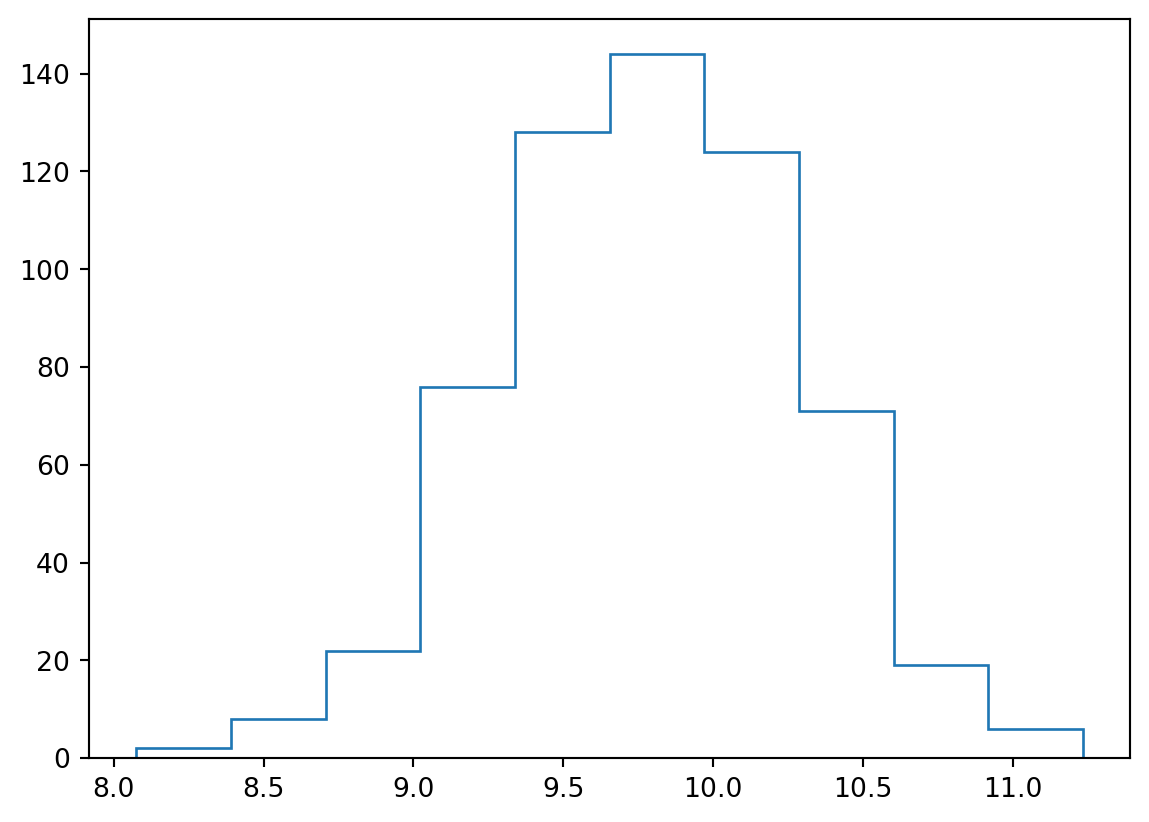
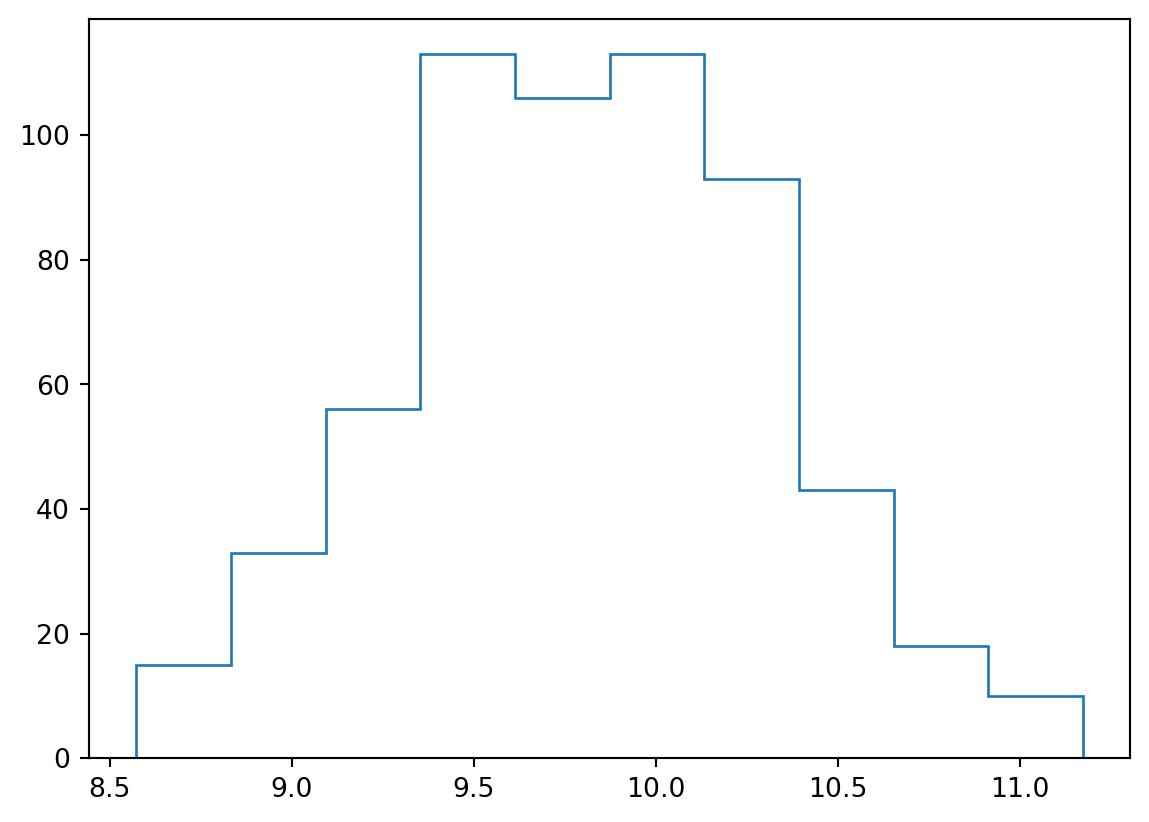
Built site for gh-pages

diff --git a/trabajos practicos/tp 03.html b/trabajos practicos/tp 03.html
@@ -336,13 +336,13 @@ window.Quarto = {
   </ul></li>
   <li><a href="#funciones-elementales" id="toc-funciones-elementales" class="nav-link" data-scroll-target="#funciones-elementales"><span class="header-section-number">2</span> Funciones elementales</a>
   <ul class="collapse">
-  <li><a href="#funciones-trigonométricas" id="toc-funciones-trigonométricas" class="nav-link" data-scroll-target="#funciones-trigonométricas"><span class="header-section-number">2.3</span> Funciones trigonométricas</a>
+  <li><a href="#funciones-trigonométricas" id="toc-funciones-trigonométricas" class="nav-link" data-scroll-target="#funciones-trigonométricas"><span class="header-section-number">2.1</span> Funciones trigonométricas</a>
   <ul class="collapse">
-  <li><a href="#tablas-de-valores" id="toc-tablas-de-valores" class="nav-link" data-scroll-target="#tablas-de-valores"><span class="header-section-number">2.3.1</span> Tablas de valores</a></li>
-  <li><a href="#funciones-inversas" id="toc-funciones-inversas" class="nav-link" data-scroll-target="#funciones-inversas"><span class="header-section-number">2.3.2</span> Funciones inversas</a></li>
-  <li><a href="#la-curva-catenaria" id="toc-la-curva-catenaria" class="nav-link" data-scroll-target="#la-curva-catenaria"><span class="header-section-number">2.3.3</span> La curva catenaria</a></li>
+  <li><a href="#tablas-de-valores" id="toc-tablas-de-valores" class="nav-link" data-scroll-target="#tablas-de-valores"><span class="header-section-number">2.1.1</span> Tablas de valores</a></li>
+  <li><a href="#funciones-inversas" id="toc-funciones-inversas" class="nav-link" data-scroll-target="#funciones-inversas"><span class="header-section-number">2.1.2</span> Funciones inversas</a></li>
+  <li><a href="#la-curva-catenaria" id="toc-la-curva-catenaria" class="nav-link" data-scroll-target="#la-curva-catenaria"><span class="header-section-number">2.1.3</span> La curva catenaria</a></li>
   </ul></li>
-  <li><a href="#funciones-exponenciales-y-logarítmicas" id="toc-funciones-exponenciales-y-logarítmicas" class="nav-link" data-scroll-target="#funciones-exponenciales-y-logarítmicas"><span class="header-section-number">2.4</span> Funciones exponenciales y logarítmicas</a></li>
+  <li><a href="#funciones-exponenciales-y-logarítmicas" id="toc-funciones-exponenciales-y-logarítmicas" class="nav-link" data-scroll-target="#funciones-exponenciales-y-logarítmicas"><span class="header-section-number">2.2</span> Funciones exponenciales y logarítmicas</a></li>
   </ul></li>
   <li><a href="#modalidad-y-fecha-de-entrega" id="toc-modalidad-y-fecha-de-entrega" class="nav-link" data-scroll-target="#modalidad-y-fecha-de-entrega"><span class="header-section-number">3</span> Modalidad y fecha de entrega</a></li>
   </ul>
@@ -422,32 +422,30 @@ H=\sigma A T^4
 
 </div>
 <div class="quarto-layout-panel" data-layout-ncol="2">
-<div class="quarto-layout-row">
-<section id="barra-lateral" class="level2 quarto-layout-cell" style="flex-basis: 50.0%;justify-content: flex-start;" data-number="2.1">
-<h2 data-number="2.1" class="anchored" data-anchor-id="barra-lateral"><span class="header-section-number">2.1</span> Barra lateral</h2>
+<div class="quarto-layout-row quarto-layout-valign-bottom">
+<div class="quarto-layout-cell" style="flex-basis: 50.0%;justify-content: flex-start;">
 <div class="quarto-figure quarto-figure-center">
 <figure class="figure">
 <p><img src="..\assets/calc-barra-funciones.png" class="img-fluid figure-img"></p>
 <figcaption>Barra lateral</figcaption>
 </figure>
 </div>
-</section>
-<section id="ayuda-para-funciones" class="level2 quarto-layout-cell" style="flex-basis: 50.0%;justify-content: flex-start;" data-number="2.2">
-<h2 data-number="2.2" class="anchored" data-anchor-id="ayuda-para-funciones"><span class="header-section-number">2.2</span> Ayuda para funciones</h2>
+</div>
+<div class="quarto-layout-cell" style="flex-basis: 50.0%;justify-content: flex-start;">
 <div class="quarto-figure quarto-figure-center">
 <figure class="figure">
 <p><img src="..\assets/calc-barra-funciones-ayuda.png" class="img-fluid figure-img"></p>
 <figcaption>Ayuda para funciones</figcaption>
 </figure>
 </div>
-</section>
 </div>
 </div>
-<section id="funciones-trigonométricas" class="level2" data-number="2.3">
-<h2 data-number="2.3" class="anchored" data-anchor-id="funciones-trigonométricas"><span class="header-section-number">2.3</span> Funciones trigonométricas</h2>
+</div>
+<section id="funciones-trigonométricas" class="level2" data-number="2.1">
+<h2 data-number="2.1" class="anchored" data-anchor-id="funciones-trigonométricas"><span class="header-section-number">2.1</span> Funciones trigonométricas</h2>
 <p>Las funciones trigonométricas se encuentran dentro del apartado de funciones matemáticas de la barra lateral. En ese listado también aparecerán las funciones <code>GRADOS()</code> y <code>RADIANES()</code> que nos permient convertir entre una forma y otra de expresar los ángulos. De todas formas siempre podremos utilizar la relación <span class="math inline">\(\pi \ \text{rad} = 180 \ \text{grados}\)</span> si no queremos usar las funciones integradas.</p>
-<section id="tablas-de-valores" class="level3" data-number="2.3.1">
-<h3 data-number="2.3.1" class="anchored" data-anchor-id="tablas-de-valores"><span class="header-section-number">2.3.1</span> Tablas de valores</h3>
+<section id="tablas-de-valores" class="level3" data-number="2.1.1">
+<h3 data-number="2.1.1" class="anchored" data-anchor-id="tablas-de-valores"><span class="header-section-number">2.1.1</span> Tablas de valores</h3>
 <p>Crear una tabla que contenga en la primera columna, el ángulo en radianes y en cada columna siguiente el valor de la función en ese punto. Completar para las siguientes funciones:</p>
 <ol type="1">
 <li><span class="math inline">\(\sin(\theta)\)</span></li>
@@ -455,8 +453,8 @@ H=\sigma A T^4
 <li><span class="math inline">\(\tan(\theta)\)</span></li>
 </ol>
 </section>
-<section id="funciones-inversas" class="level3" data-number="2.3.2">
-<h3 data-number="2.3.2" class="anchored" data-anchor-id="funciones-inversas"><span class="header-section-number">2.3.2</span> Funciones inversas</h3>
+<section id="funciones-inversas" class="level3" data-number="2.1.2">
+<h3 data-number="2.1.2" class="anchored" data-anchor-id="funciones-inversas"><span class="header-section-number">2.1.2</span> Funciones inversas</h3>
 <ol type="1">
 <li>Agregar como primera columna del apartado anterior el ángulo en grados.</li>
 <li>Agregar tres columnas que calculen los valores de las funnciones inversas del punto anterior. Añadir una columna donde el resultado de las funciones inversas se exprese en grados y comprarar con la primera columna. ¿Coinciden?</li>
@@ -469,8 +467,8 @@ H=\sigma A T^4
 </figure>
 </div>
 </section>
-<section id="la-curva-catenaria" class="level3" data-number="2.3.3">
-<h3 data-number="2.3.3" class="anchored" data-anchor-id="la-curva-catenaria"><span class="header-section-number">2.3.3</span> La curva catenaria</h3>
+<section id="la-curva-catenaria" class="level3" data-number="2.1.3">
+<h3 data-number="2.1.3" class="anchored" data-anchor-id="la-curva-catenaria"><span class="header-section-number">2.1.3</span> La curva catenaria</h3>
 <p>Si se cuelga una soga entre dos extremos, la geometría de la curva que forma es conocida como catenaria y se puede representar mediante la suguiente fórmula:</p>
 <p><span class="math display">\[
 y = \cosh(\frac{x}{c})
@@ -479,8 +477,8 @@ y = \cosh(\frac{x}{c})
 <p>Considere que $c=250 &nbsp;m $ y calcule <span class="math inline">\(y(x)\)</span> para <span class="math inline">\(-100 \ m&lt;x&lt;100 \ m\)</span> a intervalos de 10 metros. Exprese sus resultados en notación científica o ingeneril con 4 cifras significativas.</p>
 </section>
 </section>
-<section id="funciones-exponenciales-y-logarítmicas" class="level2" data-number="2.4">
-<h2 data-number="2.4" class="anchored" data-anchor-id="funciones-exponenciales-y-logarítmicas"><span class="header-section-number">2.4</span> Funciones exponenciales y logarítmicas</h2>
+<section id="funciones-exponenciales-y-logarítmicas" class="level2" data-number="2.2">
+<h2 data-number="2.2" class="anchored" data-anchor-id="funciones-exponenciales-y-logarítmicas"><span class="header-section-number">2.2</span> Funciones exponenciales y logarítmicas</h2>
 <p>La exponenciación en calc se efectúa mediante el operador <code>^</code> por lo que <span class="math inline">\(3^2\)</span> se escribe como <code>3^2</code>.</p>
 <p>La función exponencial natural, con base <span class="math inline">\(e\)</span> se puede construir usando la función <code>EXP(n)</code> donde <code>n</code> es la potencia en <span class="math inline">\(e^n\)</span>. Las funciones logaritmo se introducen como <code>LOG(NÚMERO, BASE)</code> mientras que el logaritmo natural es la función <code>LN(NÚMERO)</code>. También es posible usar la función <code>LOG10(NÚMERO)</code> para calcular el logaritmo en base diez.</p>
 <p>Construya una tabla de valores para <span class="math inline">\(-10&lt;x&lt;10\)</span> con intervalos <span class="math inline">\(\Delta x = 0,05\)</span> entre celdas. Calcule para cada columna</p>

diff --git a/clases/clase-09.html b/clases/clase-09.html
@@ -438,7 +438,7 @@ d_i = x_i - \bar{x}
 <h2 class="anchored" data-anchor-id="histogramas">Histogramas</h2>
 <p>Usualmente cuando se tienen datos a tratarse de forma estadística, resulta útil usar hitogramas para representarlos. Por ejemplo, si se efectúan <code>n</code> mediciones para obtener un valor para la constante gravitatoria en la tierra (<span class="math inline">\(9,8 \dfrac{m}{s^2}\)</span>) y si se han tomando los recaudos necesarios para llevar adelante el experimento es de esperar que la gran mayoría de los valores obtenidos se agrupen cerca del valor más probable, que dependiendo de la incerteza del método o los experimentadores, podrá ser más o menos cercano al “verdadero”, que es aquél contra el cual comparamos nuestros resultados.</p>
 <p>En este caso, si graficamos “cuantas veces obutvimos” valores para cierto intervalo o clase, obtendremos algo similar a esto:</p>
-<div id="16651ce0" class="cell" data-execution_count="1">
+<div id="ab439dc0" class="cell" data-execution_count="1">
 <div class="cell-output cell-output-display">
 <div>
 <figure class="figure">
@@ -448,7 +448,7 @@ d_i = x_i - \bar{x}
 </div>
 </div>
 <p>Si por el contrario, tiramos un dado <code>n</code> veces (y lo hacemos muuuuchas veces) veremos que la distribución de “cuantas veces salió el uno”, “cuantas veces salió el dos”, etc. tiene esta pinta:</p>
-<div id="21b88580" class="cell" data-execution_count="2">
+<div id="6f6a8fa5" class="cell" data-execution_count="2">
 <div class="cell-output cell-output-display">
 <div>
 <figure class="figure">
@@ -468,7 +468,12 @@ d_i = x_i - \bar{x}
 </section>
 <section id="referencias" class="level2">
 <h2 class="anchored" data-anchor-id="referencias">Referencias</h2>
-<p><a href="https://indico.cern.ch/event/977476/contributions/4204938/attachments/2191304/3703672/ES-Graficando-un-histograma-en-libreoffice.pdf">:link: Histogramas en LO</a> <a href="https://opendata.cern.ch/record/545">:link: Datasets CERN</a> <a href="https://matplotlib.org/stable/gallery/statistics/histogram_histtypes.html#sphx-glr-gallery-statistics-histogram-histtypes-py">:link: Distribución normal en matplotlib</a> <a href="https://matplotlib.org/stable/gallery/statistics/histogram_normalization.html#sphx-glr-gallery-statistics-histogram-normalization-py">:link: Histogramas en matplotlib</a></p>
+<ul>
+<li><a href="https://indico.cern.ch/event/977476/contributions/4204938/attachments/2191304/3703672/ES-Graficando-un-histograma-en-libreoffice.pdf">:link: Histogramas en LO</a></li>
+<li><a href="https://opendata.cern.ch/record/545">:link: Datasets CERN</a></li>
+<li><a href="https://matplotlib.org/stable/gallery/statistics/histogram_histtypes.html#sphx-glr-gallery-statistics-histogram-histtypes-py">:link: Distribución normal en matplotlib</a></li>
+<li><a href="https://matplotlib.org/stable/gallery/statistics/histogram_normalization.html#sphx-glr-gallery-statistics-histogram-normalization-py">:link: Histogramas en matplotlib</a></li>
+</ul>
 
 
 </section>

diff --git a/clases/clase-08.html b/clases/clase-08.html
@@ -305,7 +305,10 @@ ul.task-list li input[type="checkbox"] {
   <li><a href="#ejes-leyendas-y-rótulos" id="toc-ejes-leyendas-y-rótulos" class="nav-link" data-scroll-target="#ejes-leyendas-y-rótulos">Ejes, leyendas y rótulos</a></li>
   <li><a href="#barras-de-error" id="toc-barras-de-error" class="nav-link" data-scroll-target="#barras-de-error">Barras de error</a></li>
   </ul></li>
-  <li><a href="#ejercitación" id="toc-ejercitación" class="nav-link" data-scroll-target="#ejercitación">Ejercitación</a></li>
+  <li><a href="#ejercitación" id="toc-ejercitación" class="nav-link" data-scroll-target="#ejercitación">Ejercitación</a>
+  <ul class="collapse">
+  <li><a href="#graficar-una-función" id="toc-graficar-una-función" class="nav-link" data-scroll-target="#graficar-una-función">Graficar una función</a></li>
+  </ul></li>
   <li><a href="#referencias" id="toc-referencias" class="nav-link" data-scroll-target="#referencias">Referencias</a></li>
   </ul>
 </nav>
@@ -407,6 +410,9 @@ ul.task-list li input[type="checkbox"] {
 </section>
 <section id="ejercitación" class="level2">
 <h2 class="anchored" data-anchor-id="ejercitación">Ejercitación</h2>
+<section id="graficar-una-función" class="level3">
+<h3 class="anchored" data-anchor-id="graficar-una-función">Graficar una función</h3>
+</section>
 </section>
 <section id="referencias" class="level2">
 <h2 class="anchored" data-anchor-id="referencias">Referencias</h2>
